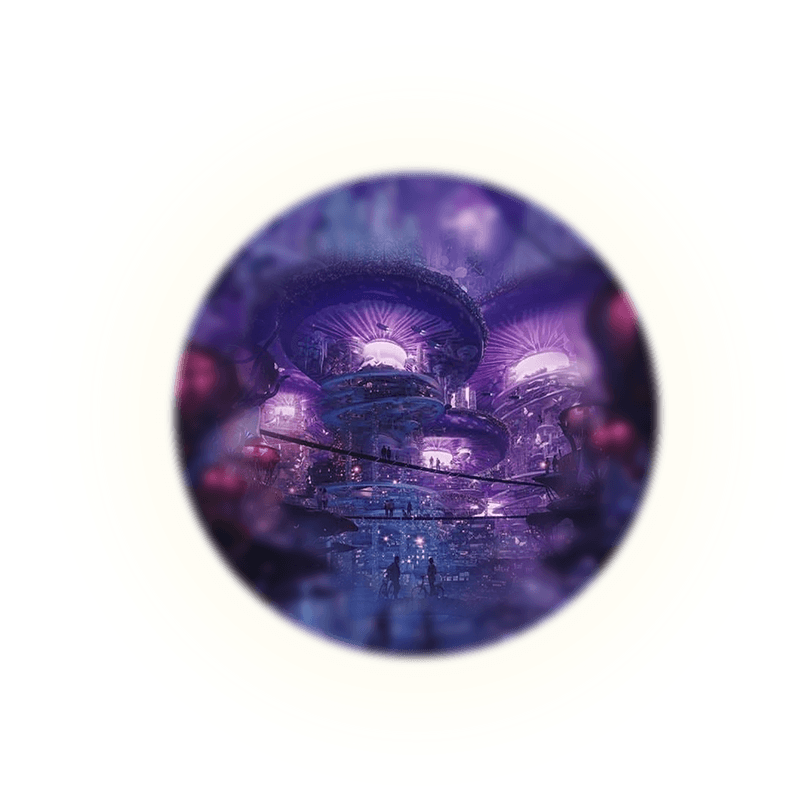
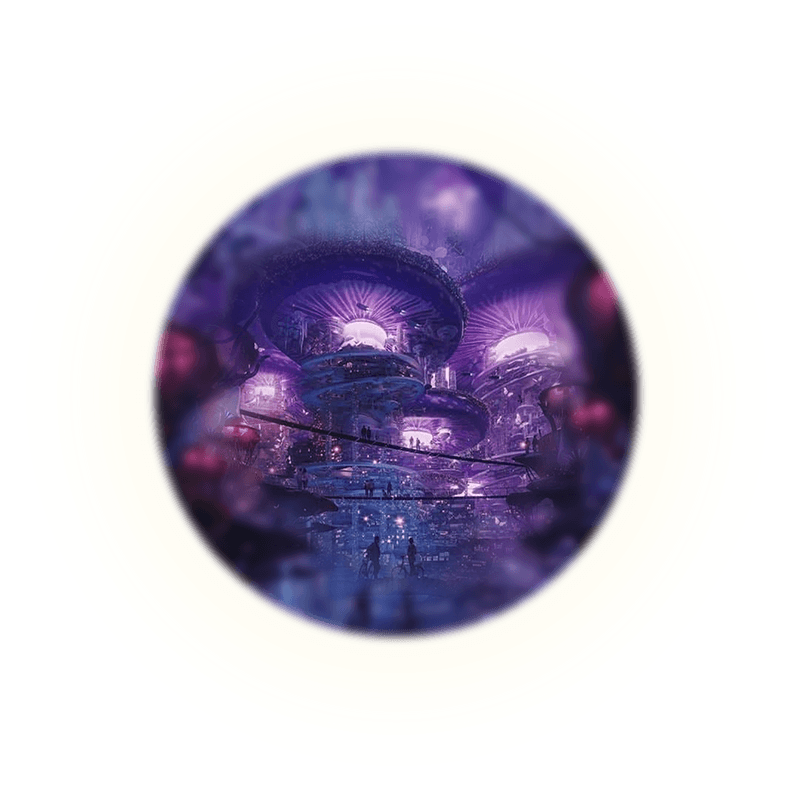
add spin

Changed region(s): [[0.1875, 0.1875, 0.8438, 0.8438]]

diff --git a/assets/css/style.css b/assets/css/style.css
@@ -377,7 +377,6 @@ header.header.is-active{background:linear-gradient(183.53deg,#33173C 3.07%,rgba(
 	width: 400px;
 	height: 400px;
 	margin: 0 auto;
-	animation:scale2 5s infinite;
 }
 @keyframes scale2{
 	0%{transform:scale(1);}
@@ -394,11 +393,11 @@ header.header.is-active{background:linear-gradient(183.53deg,#33173C 3.07%,rgba(
 	height: 100%;
 	background: url(../img/pages/tialua.png) no-repeat;
 	background-size: cover;
-	animation:spinner-rotate 5s infinite linear;
+	animation:spinner-rotate 2s infinite linear;
 }
 .el__comming img{
 	opacity: 0;
- animation: 1.5s fadeIn;
+ animation: 1s fadeIn;
   animation-fill-mode: forwards;
   transition-delay: 5s;
 }
